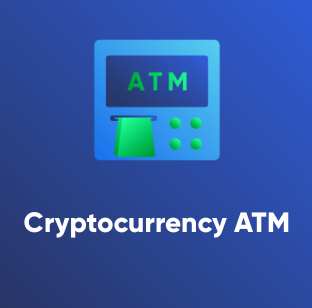
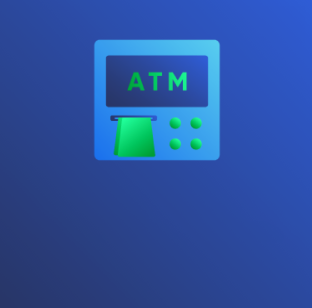
Pascal casing and using p element instead of image with text

Changed region(s): [[0.0577, 0.6721, 0.7212, 0.789], [0.75, 0.6721, 0.9519, 0.7597]]

diff --git a/src/components/ExplorePage.js b/src/components/ExplorePage.js
@@ -6,32 +6,42 @@ export const ExplorePage = ({ clickHandler }) => {
   const categoriesInfo = [
     {
       image: require('../images/category-cryptocurrency-atm.png'),
-      path: '/crypto-currency-atm'
+      path: '/crypto-currency-atm',
+      name: 'Cryptocurrency ATM'
     },
     {
       image: require('../images/category-solar-energy.png'),
-      path: '/solar-energy'
+      path: '/solar-energy',
+      name: 'Solar Energy'
     },
     {
       image: require('../images/category-cryptocurrency-atm.png'),
-      path: '/crypto-currency-atm2'
+      path: '/crypto-currency-atm2',
+      name: 'Cryptocurrency ATM'
     },
     {
       image: require('../images/category-solar-energy.png'),
-      path: '/solar-energy2'
+      path: '/solar-energy2',
+      name: 'Solar Energy'
     }
   ];
 
   const categories = categoriesInfo.map(category => (
-    <div key={category.path} className="col-center ExplorePage__category">
-      <img
-        src={category.image}
+    <div
+      key={category.path}
+      className="col-3_md-4_sm-6_xs-12 ExplorePage__category"
+    >
+      <div
+        className="ExplorePage__image-container"
         onClick={
           clickHandler ? clickHandler : debug(`Going to: ${category.path}`)
         }
-      />
+        style={{ backgroundImage: 'url(' + category.image + ')' }}
+      >
+        <p className="ExplorePage__category-name">{category.name}</p>
+      </div>
     </div>
   ));
 
-  return <div className="ExplorePage grid-center">{categories}</div>;
+  return <div className="ExplorePage grid">{categories}</div>;
 };

diff --git a/src/styles/ExplorePage.scss b/src/styles/ExplorePage.scss
@@ -3,13 +3,33 @@
 	margin: 0px;
   	max-width: 1370px;
  	margin: 0 auto;
+ 	padding-top: 50px;
 
 	&__category
-	{
-		width: 312px;
-	    margin: 0px 15px 30px 15px;
-	    cursor: pointer;
+	{	
+	    margin: 0px 0px 30px 0px;
 	    padding: 0px;
+	    height: 310px;
+
+	    &-name{
+	    	width: 100%;
+	    	text-align: center;
+	    	font-size: 27px;
+  			font-weight: 800;
+  			color: #ffffff;
+  			text-shadow: 1px 1px 3px rgba(0, 0, 0, 0.5);
+  			top: 65%;
+  			position: relative;
+  			padding: 0px 10px;
+	    }
+	}
+	&__image-container{
+		width: 90%;
+		margin: 0 auto;
+		height: 310px;
+		background-size: cover;
+		background-position: center;
+		cursor: pointer;
 	}
 }
 

diff --git a/src/App.js b/src/App.js
@@ -4,7 +4,7 @@ import './styles/App.css';
 
 import { AppHeader } from './components/AppHeader';
 import { NavigationBar } from './components/NavigationBar';
-import { default as AppContent } from './components/AppContent';
+import { ExplorePage } from './components/ExplorePage';
 
 import { connect } from 'react-redux';
 import * as actions from './actions';
@@ -21,9 +21,9 @@ class App extends Component {
           address="0x123f681646d4a755815f9cb19e1acc8565a0c2ac"
         />
         <NavigationBar />
-        <Grid>
-          <AppContent />
-        </Grid>
+        <div className="page-wrapper">
+          <ExplorePage />
+        </div>
       </div>
     );
   }

diff --git a/src/styles/index.scss b/src/styles/index.scss
@@ -31,3 +31,7 @@ html {
 b{
   font-weight: bold;
 }
+
+.page-wrapper{
+  padding: 0px 50px 0px 50px;
+}
